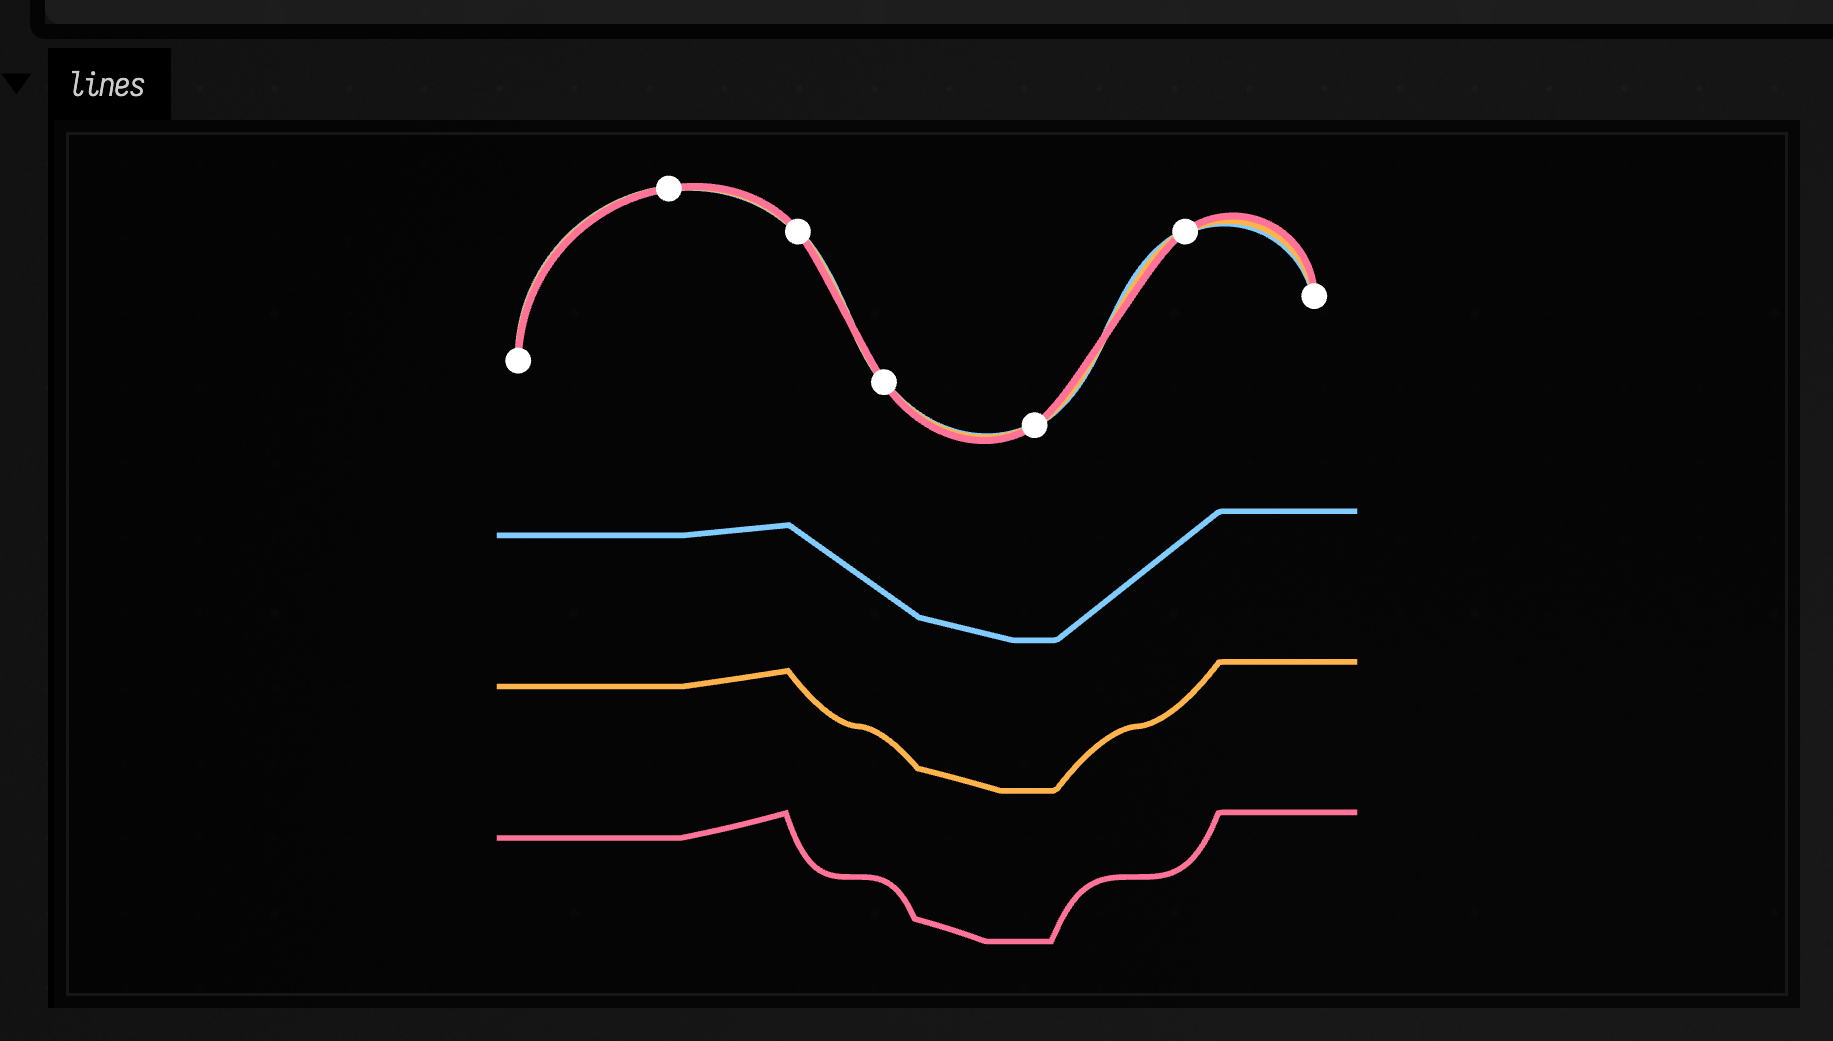
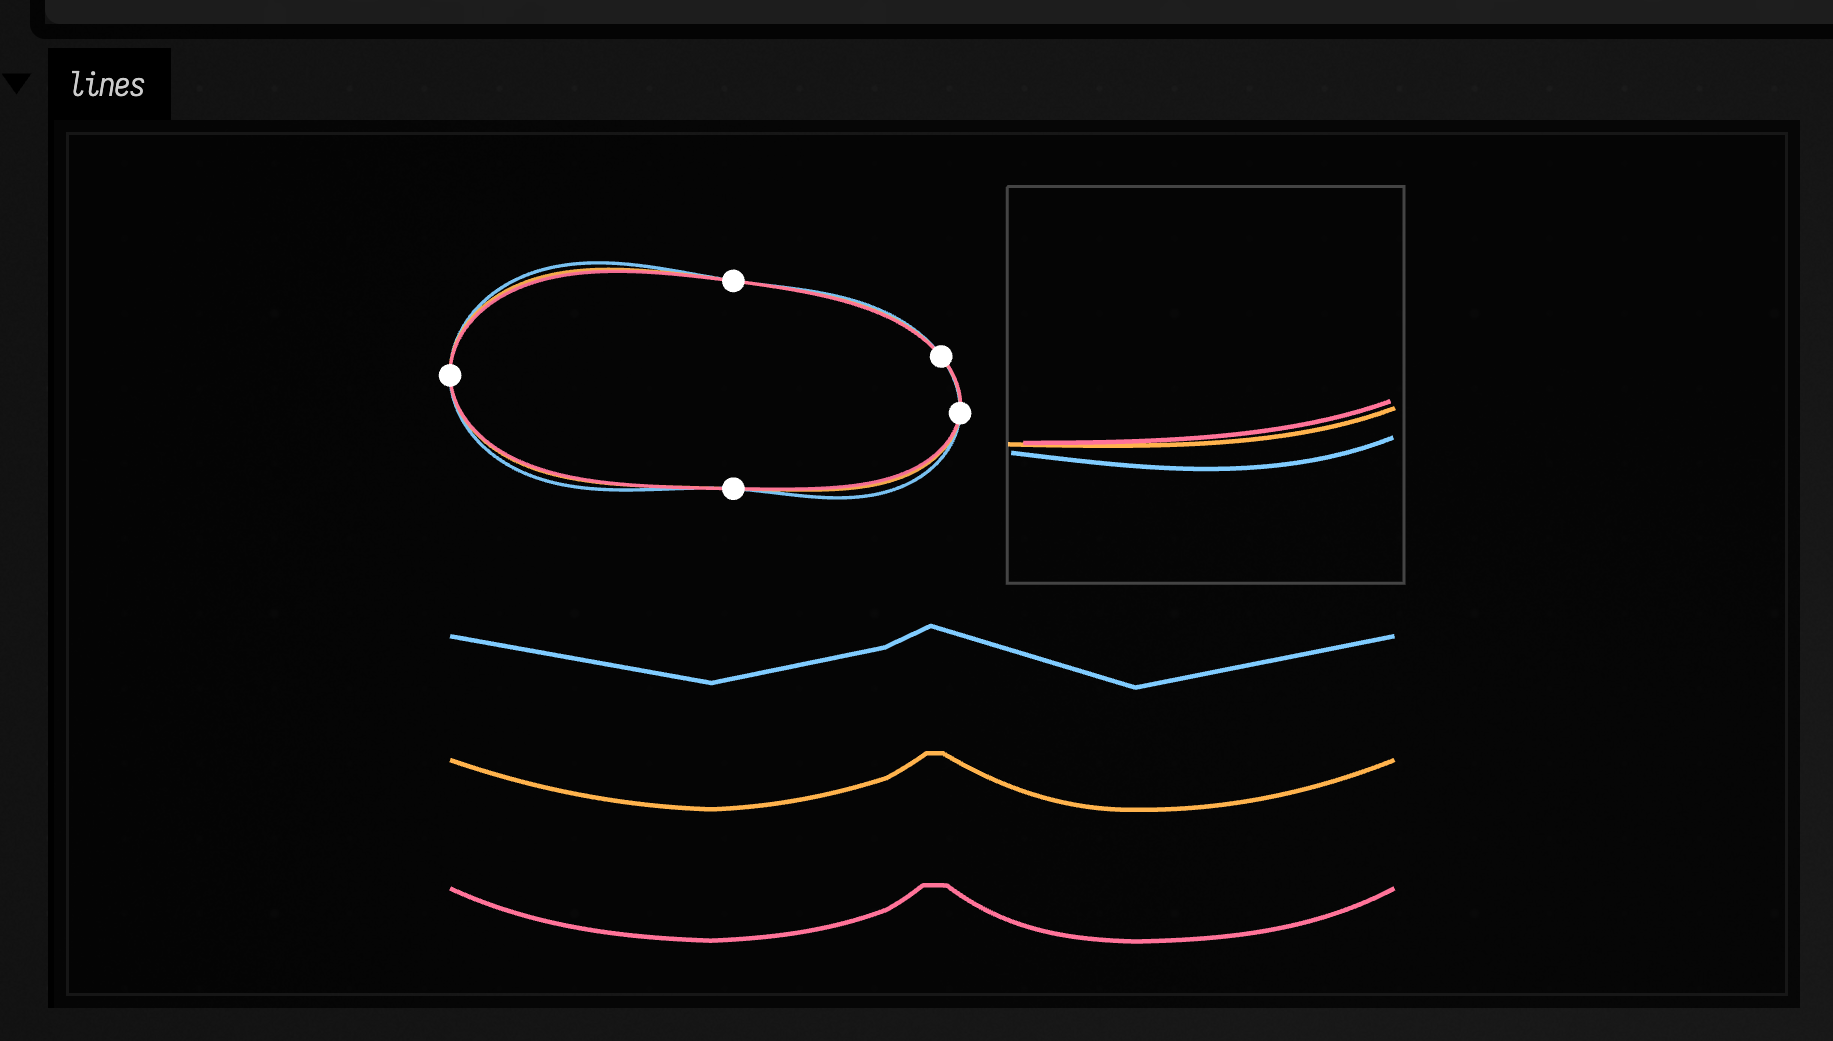
Docs: weight=null and a Hobby comparison; weights capture redrawn with an inset
The weights capture now uses a lopsided drop with a 3x inset where weight 1's
long side bulges; new clothoid_spline_vs_hobby.png compares hobbySplineFrom
with clothoidSplineFrom(weight = null) on the egg. Open-questions list and
Where to go next updated; dev note records the rule and the Hobby derivation.

diff --git a/public/docs/fline_examples.md b/public/docs/fline_examples.md
@@ -1381,7 +1381,7 @@ fun clothoidSplineFrom(
     corners: Collection<Int> = emptyList(),
     startDirection: Vec2? = null,
     endDirection: Vec2? = null,
-    weight: Double = 1.0,
+    weight: Double? = 1.0,
 ): FLine
 fun clothoidSplineFrom(
     points: List<Vec3>,
@@ -1391,7 +1391,7 @@ fun clothoidSplineFrom(
     startDirection: Vec3? = null,
     endDirection: Vec3? = null,
     planeNormal: Vec3? = vec(0, 0, 1),
-    weight: Double = 1.0,
+    weight: Double? = 1.0,
 ): FLine
 
 fun FLine.curvatureComb(scale: Double = 2000.0, samples: Int = 120): FLine
@@ -1598,26 +1598,43 @@ The solve can fail where the curve has to double back on itself between neighbou
 
 #### Sharper turns at the points: `weight = ...`
 
-With the default `weight = 1.0`, curvature changes at a steady rate along each piece. Below 1, each piece keeps its curvature close to its gentler end for most of its length and changes it quickly next to the point that needs the sharper turn. The curvature still runs one way between two points, so a piece still turns from left to right at most once, its sharpest curvature is at one of its points, and points on a circle still give the circle. `weight` runs from 1 down to 0.1; 0.5 is a good first try.
+With the default `weight = 1.0`, curvature changes at a steady rate along each piece. Below 1, each piece keeps its curvature close to its gentler end for most of its length and changes it quickly next to the point that needs the sharper turn. The curvature still runs one way between two points, so a piece still turns from left to right at most once, its sharpest curvature is at one of its points, and points on a circle still give the circle. `weight` runs from 1 down to 0.1; 0.5 is a good first try, and `null` picks one per piece (below).
 
-The same open curve at weights 1, 0.6 and 0.3 is drawn below, with its curvature plot underneath on one shared scale. At weight 1 the plot is straight runs; as the weight drops, each run stays flat longer and bends into the point at its higher end.
+The same five points of a lopsided drop are drawn below at weights 1, 0.5 and 0.3, with a three-times enlargement of the lower right in the box and each curvature plot underneath on one shared scale (the tight end runs off the top). At weight 1 (blue) the plot is straight runs, and the long sides bulge out past the other two curves on their way into the tight end. As the weight drops, each run stays flat longer and bends into the point at its higher end, and the long sides stay closer to straight.
 
 ```diffstatic_runner {data-lang=kotlin screenshot="assets/clothoid_spline_weights.png" embed=true}
 :::static
-val knots = [vec(20, 120), vec(90, 40), vec(150, 60), vec(190, 130), vec(260, 150), vec(330, 60), vec(390, 90)]
+val knots = [vec(0, 50), vec(150, 0), vec(260, 40), vec(270, 70), vec(150, 110)]
 
-val weights = [1.0, 0.6, 0.3]
+val weights = [1.0, 0.5, 0.3]
 val colors = [vec(0.5, 0.8, 1.0, 1.0), vec(1.0, 0.7, 0.3, 1.0), vec(1.0, 0.45, 0.6, 1.0)]
 
 val curves = weights.indices.map { i ->
-    clothoidSplineFrom(knots, weight = weights[i]).apply {
-        thickness = 2.5
+    clothoidSplineFrom(knots, closed = true, weight = weights[i]).apply {
+        thickness = 1.5
         color = colors[i]
     }
 }
+
+// the lower right, enlarged three times: the drawn points inside a 70-unit window round (205, 100)
+val centre = vec(205, 100)
+fun enlarge(line: FLine): FLine {
+    val inside = line.nodes.mapNotNull { it.toOrNull }.filter { kotlin.math.abs(it.x - centre.x) < 35 && kotlin.math.abs(it.y - centre.y) < 35 }
+    return polylineFrom(inside.map { vec(400 + 3 * (it.x - centre.x), 55 + 3 * (it.y - centre.y)) })
+}
+val enlarged = curves.indices.map { i ->
+    enlarge(curves[i]).apply {
+        thickness = 2.0
+        color = colors[i]
+    }
+}
+val frame = polylineFrom([vec(295, -50), vec(505, -50), vec(505, 160), vec(295, 160), vec(295, -50)]).apply {
+    color = vec(1.0, 1.0, 1.0, 0.3)
+}
+
 // curvature against distance, one row per weight, all on one scale
 val plots = curves.indices.map { i ->
-    (curves[i].curvaturePlot(400.0, 60.0, maxCurvature = 0.02) + vec(10, 190 + i * 70)).apply {
+    (curves[i].curvaturePlot(500.0, 60.0, maxCurvature = 0.03) + vec(0, 180 + i * 70)).apply {
         thickness = 2.0
         color = colors[i]
     }
@@ -1629,7 +1646,7 @@ val dots = polylineFrom(knots).apply {
     color = vec(1.0, 1.0, 1.0, 1.0)
 }
 
-lines(curves + plots + dots, w = 420.0, h = 400.0, fitToSize = true)
+lines(curves + enlarged + plots + frame + dots, w = 420.0, h = 400.0, fitToSize = true)
 ```
 
 A lower weight helps most on a round outline with uneven spacing. Through the seven points of the egg below, weight 1 (orange, top) lets the curvature on the long sides run down past zero: in the plot beside it the curve dips under the white zero line twice, and the outline flattens and dents very slightly there, where it should stay round. At weight 0.5 (blue, below) the turn is gathered at the tight end and the curvature stays above zero all the way round.
@@ -1674,9 +1691,56 @@ val drawn: List<FLine> = [eulerComb, weightedComb, euler, weighted, dots, eulerP
 lines(zeros + drawn, w = 420.0, h = 340.0, fitToSize = true)
 ```
 
+`weight = null` chooses a weight for each piece from the directions at its two ends. A piece shaped like a lopsided C, curling tightly at one end and leaving the other almost along its chord, gets a weight as low as 0.3; a symmetric arc, an S-shaped piece or a straight one keeps weight 1. So on the egg the long sides are drawn with low weights, while a wave like the one at the top of this section comes out almost exactly as at weight 1. This rule is our own: S9 also chooses its weights from the end directions, but its rule is not published.
+
+#### Compared with Hobby's spline: `hobbySplineFrom(...)`
+
+```diffstatic {data-lang=kotlin}
+:::static
+fun hobbySplineFrom(points: List<Vec2>, z: Number = 0, closed: Boolean = false): FLine
+```
+
+John Hobby's spline is the one METAFONT and MetaPost draw. It also chooses one direction per point so that curvature matches across the point, but it matches an approximation of curvature that is only accurate for gentle turns. In return it solves for the directions in one step and draws each piece as a cubic Bézier, a form that fonts and plotters take directly. On the egg, Hobby's spline (orange, top) and `clothoidSplineFrom(..., weight = null)` (blue, below) look alike, and so do their curvature plots, drawn beside them on one scale. The difference is in the detail: Hobby's curvature has small steps and ripples at the points, while the clothoid's is made of smooth runs that meet without a step. For a drawing that ends up as Béziers, Hobby's spline is the simpler choice; where the curvature itself matters, use the clothoid.
+
+```diffstatic_runner {data-lang=kotlin screenshot="assets/clothoid_spline_vs_hobby.png" embed=true}
+:::static
+val egg = [vec(0, 0), vec(110, -5), vec(190, 35), vec(190, 65), vec(110, 105), vec(0, 100), vec(-30, 50)]
+val lower = egg.map { it + vec(0, 200) }
+
+val hobby = hobbySplineFrom(egg, closed = true).apply {
+    thickness = 2.5
+    color = vec(1.0, 0.7, 0.3, 1.0)
+}
+val clothoid = clothoidSplineFrom(lower, closed = true, weight = null).apply {
+    thickness = 2.5
+    color = vec(0.5, 0.8, 1.0, 1.0)
+}
+
+val hobbyComb = hobby.curvatureComb(scale = 900.0, samples = 200).apply { color = vec(1.0, 0.7, 0.3, 0.45) }
+val clothoidComb = clothoid.curvatureComb(scale = 900.0, samples = 200).apply { color = vec(0.5, 0.8, 1.0, 0.45) }
+val hobbyPlot = (hobby.curvaturePlot(170.0, 80.0, maxCurvature = 0.03) + vec(240, 10)).apply {
+    thickness = 2.0
+    color = vec(1.0, 0.7, 0.3, 1.0)
+}
+val clothoidPlot = (clothoid.curvaturePlot(170.0, 80.0, maxCurvature = 0.03) + vec(240, 210)).apply {
+    thickness = 2.0
+    color = vec(0.5, 0.8, 1.0, 1.0)
+}
+val zeros = [50, 250].map { y -> polylineFrom([vec(240, y), vec(410, y)]).apply { color = vec(1.0, 1.0, 1.0, 0.5) } }
+val dots = polylineFrom(egg + lower).apply {
+    stroked = false
+    pointed = true
+    pointSize = 2.0
+    color = vec(1.0, 1.0, 1.0, 1.0)
+}
+
+val drawn: List<FLine> = [hobbyComb, clothoidComb, hobby, clothoid, dots, hobbyPlot, clothoidPlot]
+lines(zeros + drawn, w = 420.0, h = 340.0, fitToSize = true)
+```
+
 A lower weight is not better everywhere. Where a piece runs between two points of equal curvature, as on the long sides of a symmetric rounded rectangle, every weight gives the same arc. On a wave whose curvature changes sign in every piece, a low weight squeezes each change of direction toward the points, and the curve reads more like arcs joined end to end.
 
-This spline is Aurimas Gasiulis's [S9 spline](https://gasiulis.name/new-spline) family; at weight 1 it is the Euler-spiral spline. That page describes what the weights do but not their formula, so the weighted pieces here are our own choice: curvature times piece length is `sign(F)·|F|^(1/weight)`, with `F` changing linearly along the piece. S9 itself picks two weights per piece from the piece's end directions; here one `weight` applies to every piece. The Euler-spiral spline itself is Raph Levien's, from his thesis [*From Spiral to Spline*](https://levien.com/phd/thesis.pdf) (2009); Henry Moreton's [*Minimum Curvature Variation Curves*](https://www2.eecs.berkeley.edu/Pubs/TechRpts/1993/CSD-93-732.pdf) (1992) is the background on why curves like this look fair.
+This spline is Aurimas Gasiulis's [S9 spline](https://gasiulis.name/new-spline) family; at weight 1 it is the Euler-spiral spline. That page describes what the weights do but not their formula, so the weighted pieces here are our own choice: curvature times piece length is `sign(F)·|F|^(1/weight)`, with `F` changing linearly along the piece. S9 itself picks two weights per piece from the piece's end directions; here a piece has one weight, either yours or the rule's. The Euler-spiral spline itself is Raph Levien's, from his thesis [*From Spiral to Spline*](https://levien.com/phd/thesis.pdf) (2009); Henry Moreton's [*Minimum Curvature Variation Curves*](https://www2.eecs.berkeley.edu/Pubs/TechRpts/1993/CSD-93-732.pdf) (1992) is the background on why curves like this look fair.
 
 ??? aside "How the captures were checked"
     `src/jvmTest/kotlin/afield/geometry/path/ClothoidSplineTest.kt` measures the drawn polylines: the curvature jump at each point is under 1% of the peak, circle points stay within 0.1% of the radius, and no piece of the test shapes has more than one inflection. The same file checks weights 0.8 down to 0.2: curvature stays continuous at the points, runs monotonically inside each piece, matches the curvature measured from the drawn shape, and a circle stays a circle; weight 0.99999 lands within 0.01 units of weight 1, whose code path is unchanged. The egg was found by trying round outlines with uneven spacing: weight 1's curvature dips to −0.08 of its peak there, while weight 0.7 and below stay positive.
@@ -4396,9 +4460,10 @@ Next on the Tour, [Drawing and Notation](drawing_and_notation.md) draws by hand 
 - [Variable-width strokes](#variable-width-strokes-the-swept-circle-envelope) above outline a pen stroke from its pressure, with [thinning for tablet strokes](#tablet-strokes-thinpensamples), [sharp turns](#sharp-turns-pencorners) and [outlining strokes as they are drawn](#outlining-strokes-as-they-are-drawn); open the [variable_width_strokes starting point](agent_transcripts.md#variable_width_strokes) to try them. Source: [`FLineThickening.kt`](https://github.com/OpenEndedGroup/Field4/blob/main/src/jvmMain/kotlin/afield/geometry/path/FLineThickening.kt) and [`SweptCircleEnvelopeTest.kt`](https://github.com/OpenEndedGroup/Field4/blob/main/src/jvmTest/kotlin/afield/geometry/path/SweptCircleEnvelopeTest.kt).
 - Open the [clothoid_spline starting point](agent_transcripts.md#clothoid_spline) to try the
   spline boxes in your own document, and add `weight = 0.5` to any `clothoidSplineFrom` call to
-  see [the sharper-turn pieces](#sharper-turns-at-the-points-weight).
+  see [the sharper-turn pieces](#sharper-turns-at-the-points-weight), or swap in
+  [`hobbySplineFrom`](#compared-with-hobbys-spline-hobbysplinefrom) to compare with Hobby's spline.
 - Source: [`FLineGeometry.kt`](https://github.com/OpenEndedGroup/Field4/blob/main/src/jvmMain/kotlin/afield/geometry/path/FLineGeometry.kt)
-  (`clothoidSplineFrom`, `curvatureComb`, `curvaturePlot`, `eulerSpiralBetween3D`) and its test,
+  (`clothoidSplineFrom`, `hobbySplineFrom`, `curvatureComb`, `curvaturePlot`, `eulerSpiralBetween3D`) and its test,
   [`ClothoidSplineTest.kt`](https://github.com/OpenEndedGroup/Field4/blob/main/src/jvmTest/kotlin/afield/geometry/path/ClothoidSplineTest.kt).
 
 Open questions and next builds:
@@ -4409,13 +4474,9 @@ Open questions and next builds:
   fixed by its two end directions in 3D (the 3D version of the per-piece fit), and the knot solve
   would match the curvature vector rather than one number. [`eulerSpiralBetween3D`](#euler-spiral-in-3d-clothoid-ish-connection)
   is the two-point version with a ramp, the place such a piece would start.
-- **Weights per piece.** `weight` is one number for the whole spline. S9 chooses two weights for
-  each piece from its end directions. A rule that lowers the weight only on pieces that would
-  otherwise dip toward zero curvature (the egg's long side) would keep a wave's pieces as Euler
-  spirals. Whether the sharper ends help lettering, where S9 is aimed, is the thing to look at.
-- **A Hobby comparison.** Hobby's spline (the one in METAFONT and MetaPost) also picks each piece
-  from its two end directions, but as a cubic with a closed-form solve. Drawn through the same
-  knots with combs, it would show what curvature continuity costs and buys.
+- **Weights for lettering.** `weight = null` lowers the weight on lopsided C-shaped pieces only.
+  Whether that helps lettering, where S9 is aimed, is the thing to look at next, on the "D" and "S"
+  above and on traced glyphs.
 - **Draggable knots.** Read the knots from the drawing layer through `notation` and redraw on
   `notation.onChange`, so the spline follows the points as they move. Corners could come from the
   drawing too, as points marked differently.

diff --git a/dev_docs/clothoid_spline.md b/dev_docs/clothoid_spline.md
@@ -171,3 +171,16 @@ written on the page: lower the weight only on pieces that would dip toward zero 
 | egg3 | −0.136 | −0.026 | 0.003 | 0.016 |
 | bean | −0.191 | −0.085 | −0.007 | 0.003 |
 | pebble2 | 0.058 | 0.090 | 0.105 | 0.116 |
+
+### Per-piece rule and Hobby (2026-11-12, second pass)
+
+- `weight = null`: `w = max(0.3, 1 − 1.7·asymmetry·cShape)` with
+  `asymmetry = |φ0+φ1|/(|φ0|+|φ1|)`, `cShape = max(0, −2φ0φ1/(φ0²+φ1²))` (φ against the chord).
+  Exactly 1 for arcs, S shapes, straight pieces; continuous in the headings (the knot Newton varies
+  them). Our rule, not S9's. Default stays `weight = 1.0` (bit-identical).
+- Regression test `lowWeightsKeepConvexKnotsConvex`: two eggs where weight 1 dips below zero;
+  w ≤ 0.5 and `null` must keep curvature positive. The first family fails it.
+- `hobbySplineFrom`: Hobby tension 1. Its mock-curvature equation is exactly the small-angle Euler
+  condition (`κL = 2φ − 4θ` at a piece's start, `2θ − 4φ` at its end), solved densely (2 unknowns per
+  piece), ends "curl 1" as θ = φ on the end pieces; cubic pieces from Hobby's velocity function.
+- The weights capture uses an inset: at column width the curves differ by only ~2% of the size.
